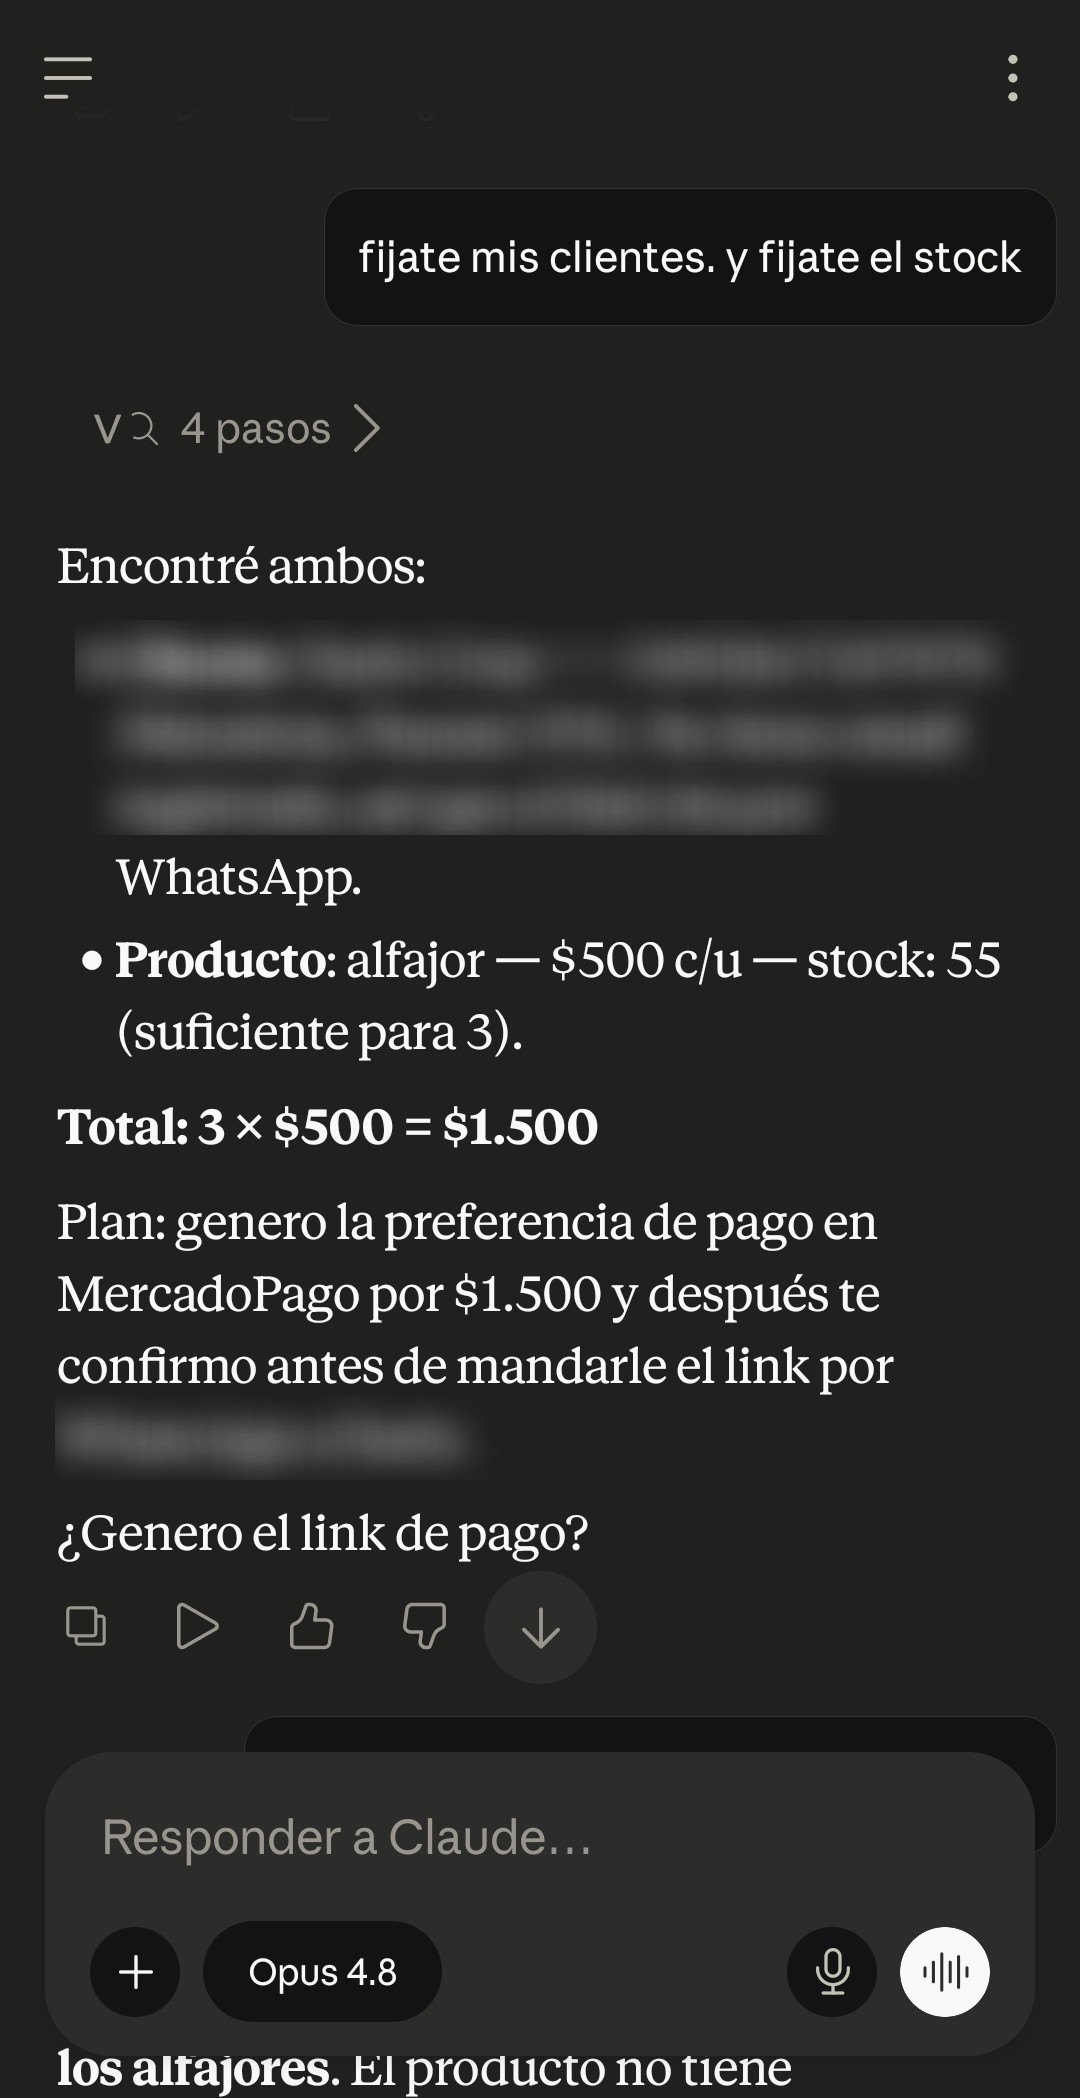
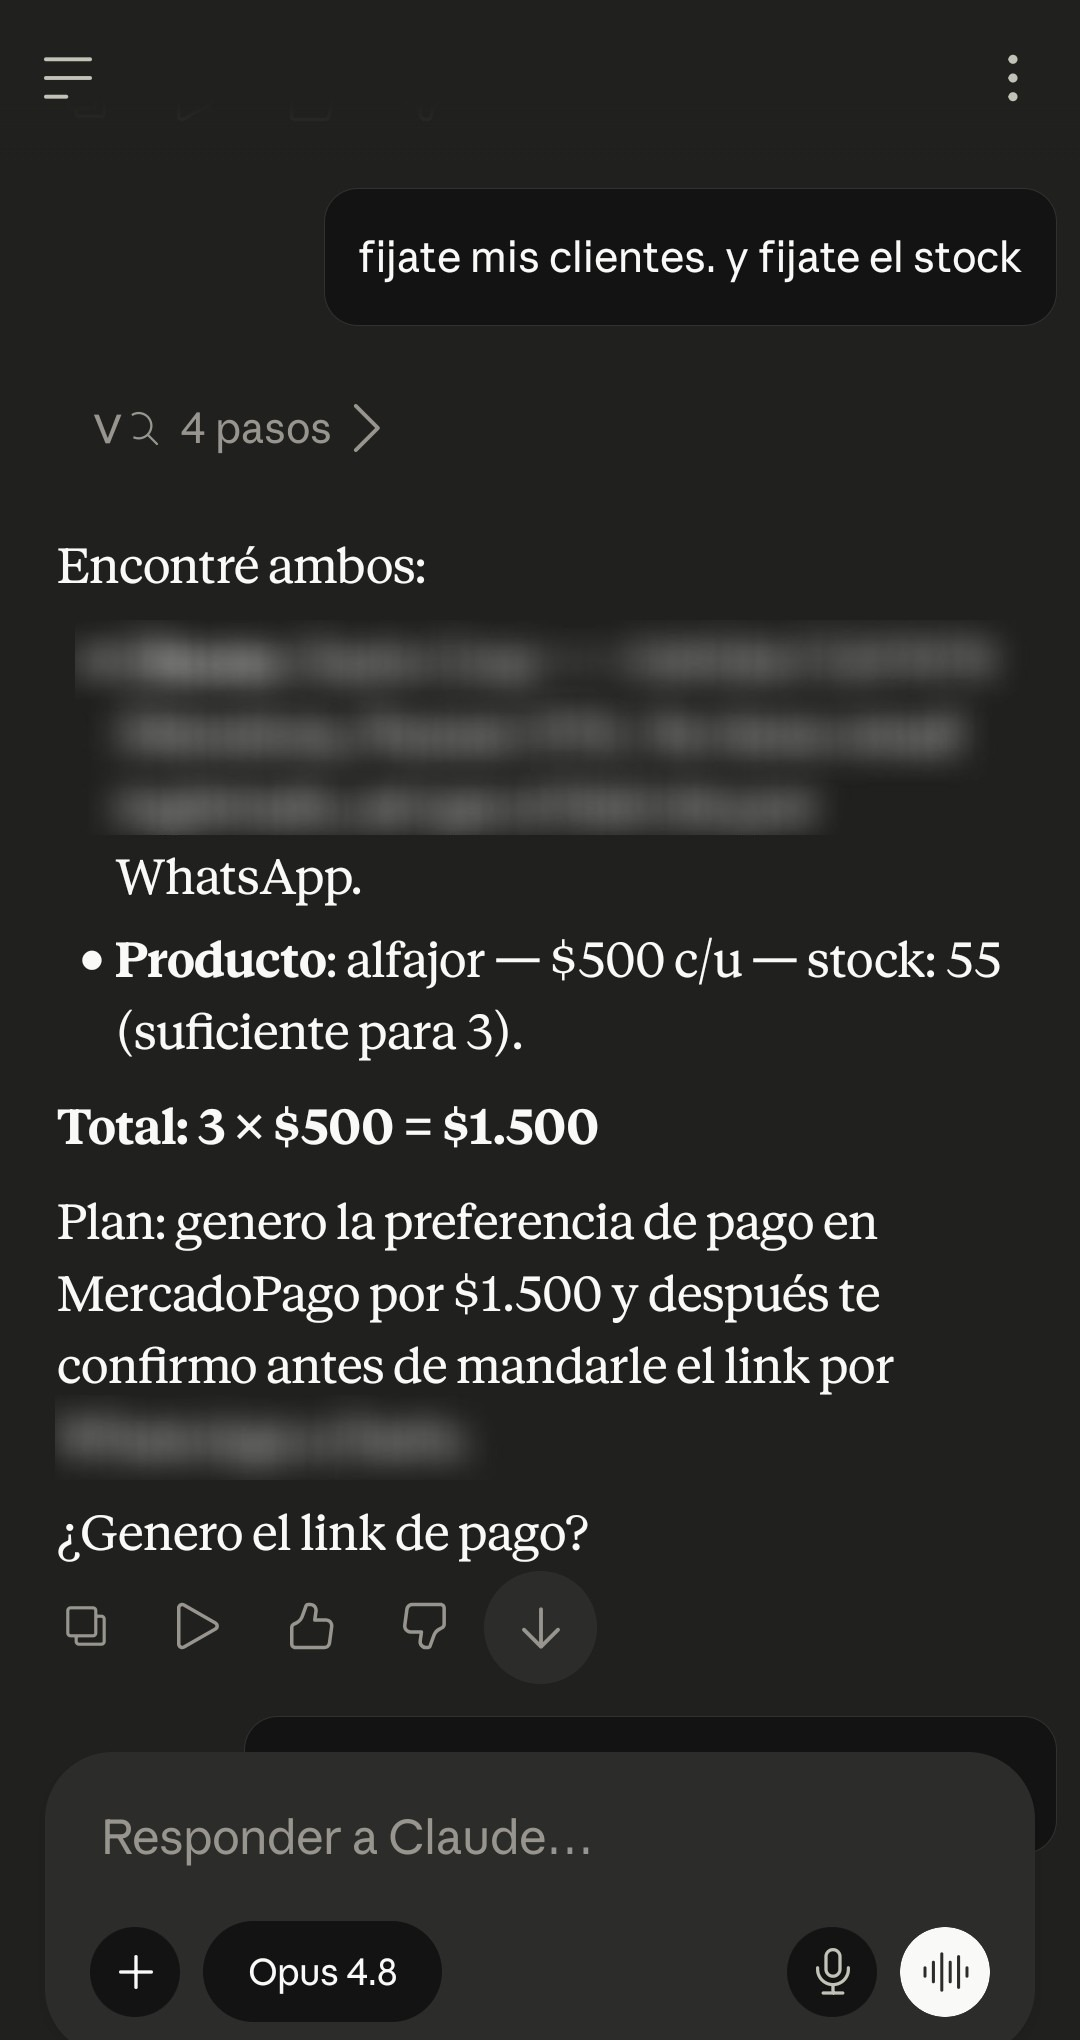
feat(landing): replace Gemini coming-soon card with live Gemini CLI session + crop Claude screenshot

diff --git a/src/components/landing/landing-copy.ts b/src/components/landing/landing-copy.ts
@@ -156,9 +156,9 @@ export const defaultCopy: LandingCopy = {
       {
         name: "Gemini",
         imageAlt:
-          "Gemini Spark — próximamente vas a poder manejar Velora con el agente personal de Google",
-        caption: "Pronto vas a poder manejar Velora con Gemini Spark.",
-        imageSrc: "/integraciones/gemini-spark.jpg",
+          "Sesión real de Gemini CLI consultando el catálogo de Velora vía MCP: Gemini llama a mcp_velora_query_catalog y lista los productos con stock en vivo",
+        caption: "Gemini opera Velora vía MCP — en vivo.",
+        imageSrc: "/integraciones/gemini-cli-velora.jpg",
         hasScreenshot: true,
       },
     ],
@@ -166,7 +166,7 @@ export const defaultCopy: LandingCopy = {
   faq: {
     /* Title is split into three parts so the middle word can be italicised. */
     title: ["Lo que ", "probablemente", " querés saber."],
-    subtitle: "Si falta algo, escribinos a owner@example.com.",
+    subtitle: "Si falta algo, escribinos a gestiones@somosvelora.com.",
     items: [
       {
         q: "¿Qué es Velora?",
@@ -213,7 +213,7 @@ export const defaultCopy: LandingCopy = {
       { label: "Privacidad", href: "/privacy" },
       { label: "Términos", href: "/terminos" },
     ],
-    contactEmail: "owner@example.com",
+    contactEmail: "gestiones@somosvelora.com",
   },
 };
 

diff --git a/src/components/landing/landing-copy.en.ts b/src/components/landing/landing-copy.en.ts
@@ -132,16 +132,16 @@ export const defaultCopyEn: LandingCopy = {
       {
         name: "Gemini",
         imageAlt:
-          "Gemini Spark — soon you'll be able to run Velora with Google's personal agent",
-        caption: "Soon you'll be able to run Velora with Gemini Spark.",
-        imageSrc: "/integraciones/gemini-spark.jpg",
+          "Live Gemini CLI session querying the Velora catalog via MCP: Gemini calls mcp_velora_query_catalog and returns real product stock data",
+        caption: "Gemini operates Velora via MCP — live.",
+        imageSrc: "/integraciones/gemini-cli-velora.jpg",
         hasScreenshot: true,
       },
     ],
   },
   faq: {
     title: ["Things people ", "actually", " want to know."],
-    subtitle: "Missing something? Write to owner@example.com.",
+    subtitle: "Missing something? Write to gestiones@somosvelora.com.",
     items: [
       {
         q: "What is Velora?",
@@ -188,6 +188,6 @@ export const defaultCopyEn: LandingCopy = {
       { label: "Privacy", href: "/privacy" },
       { label: "Terms", href: "/terms" },
     ],
-    contactEmail: "owner@example.com",
+    contactEmail: "gestiones@somosvelora.com",
   },
 };
